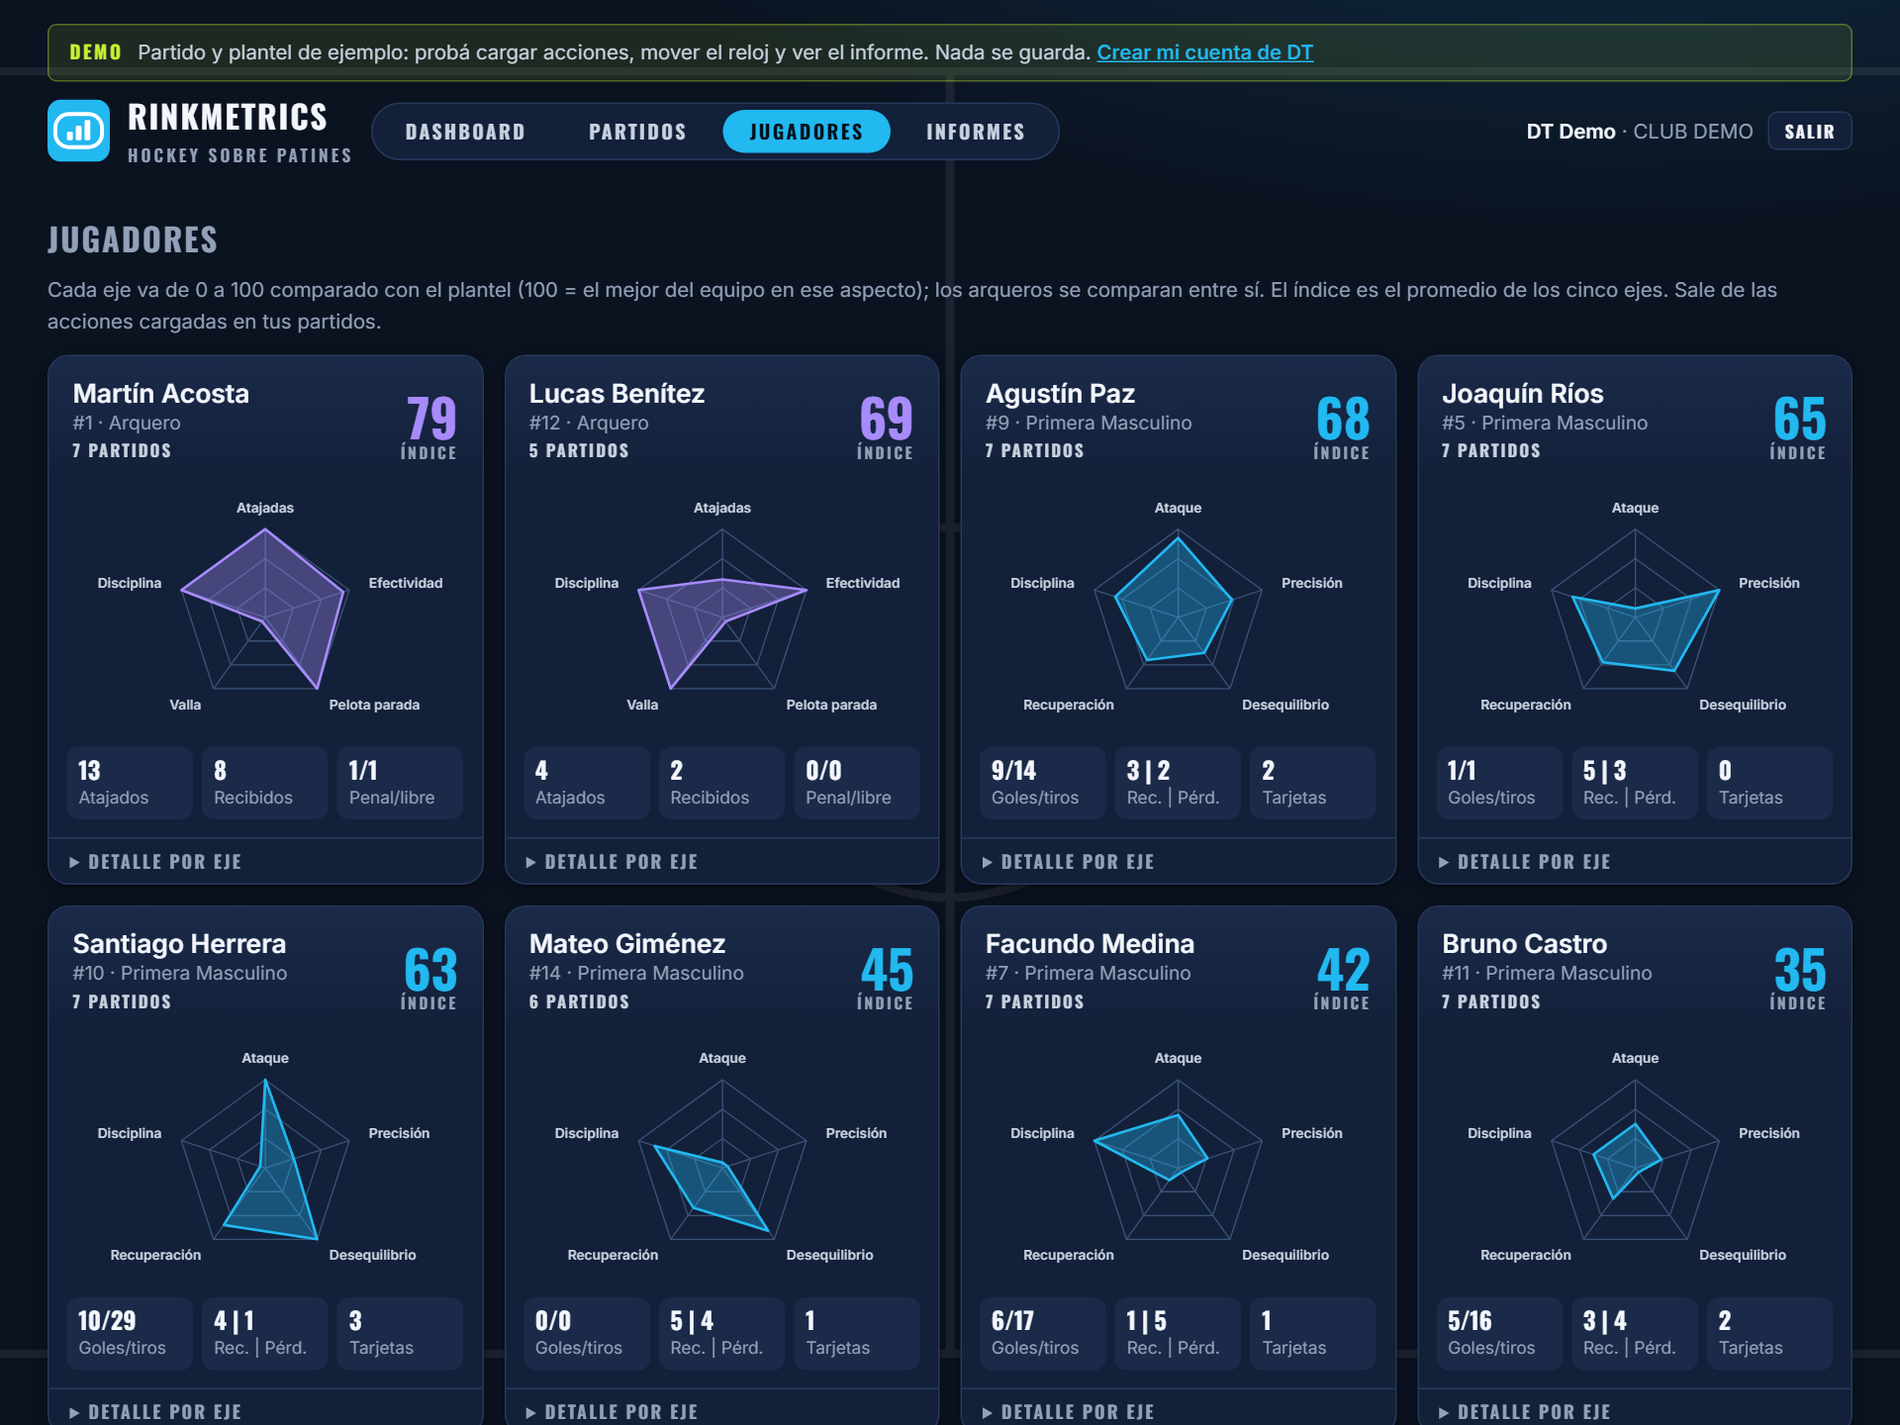
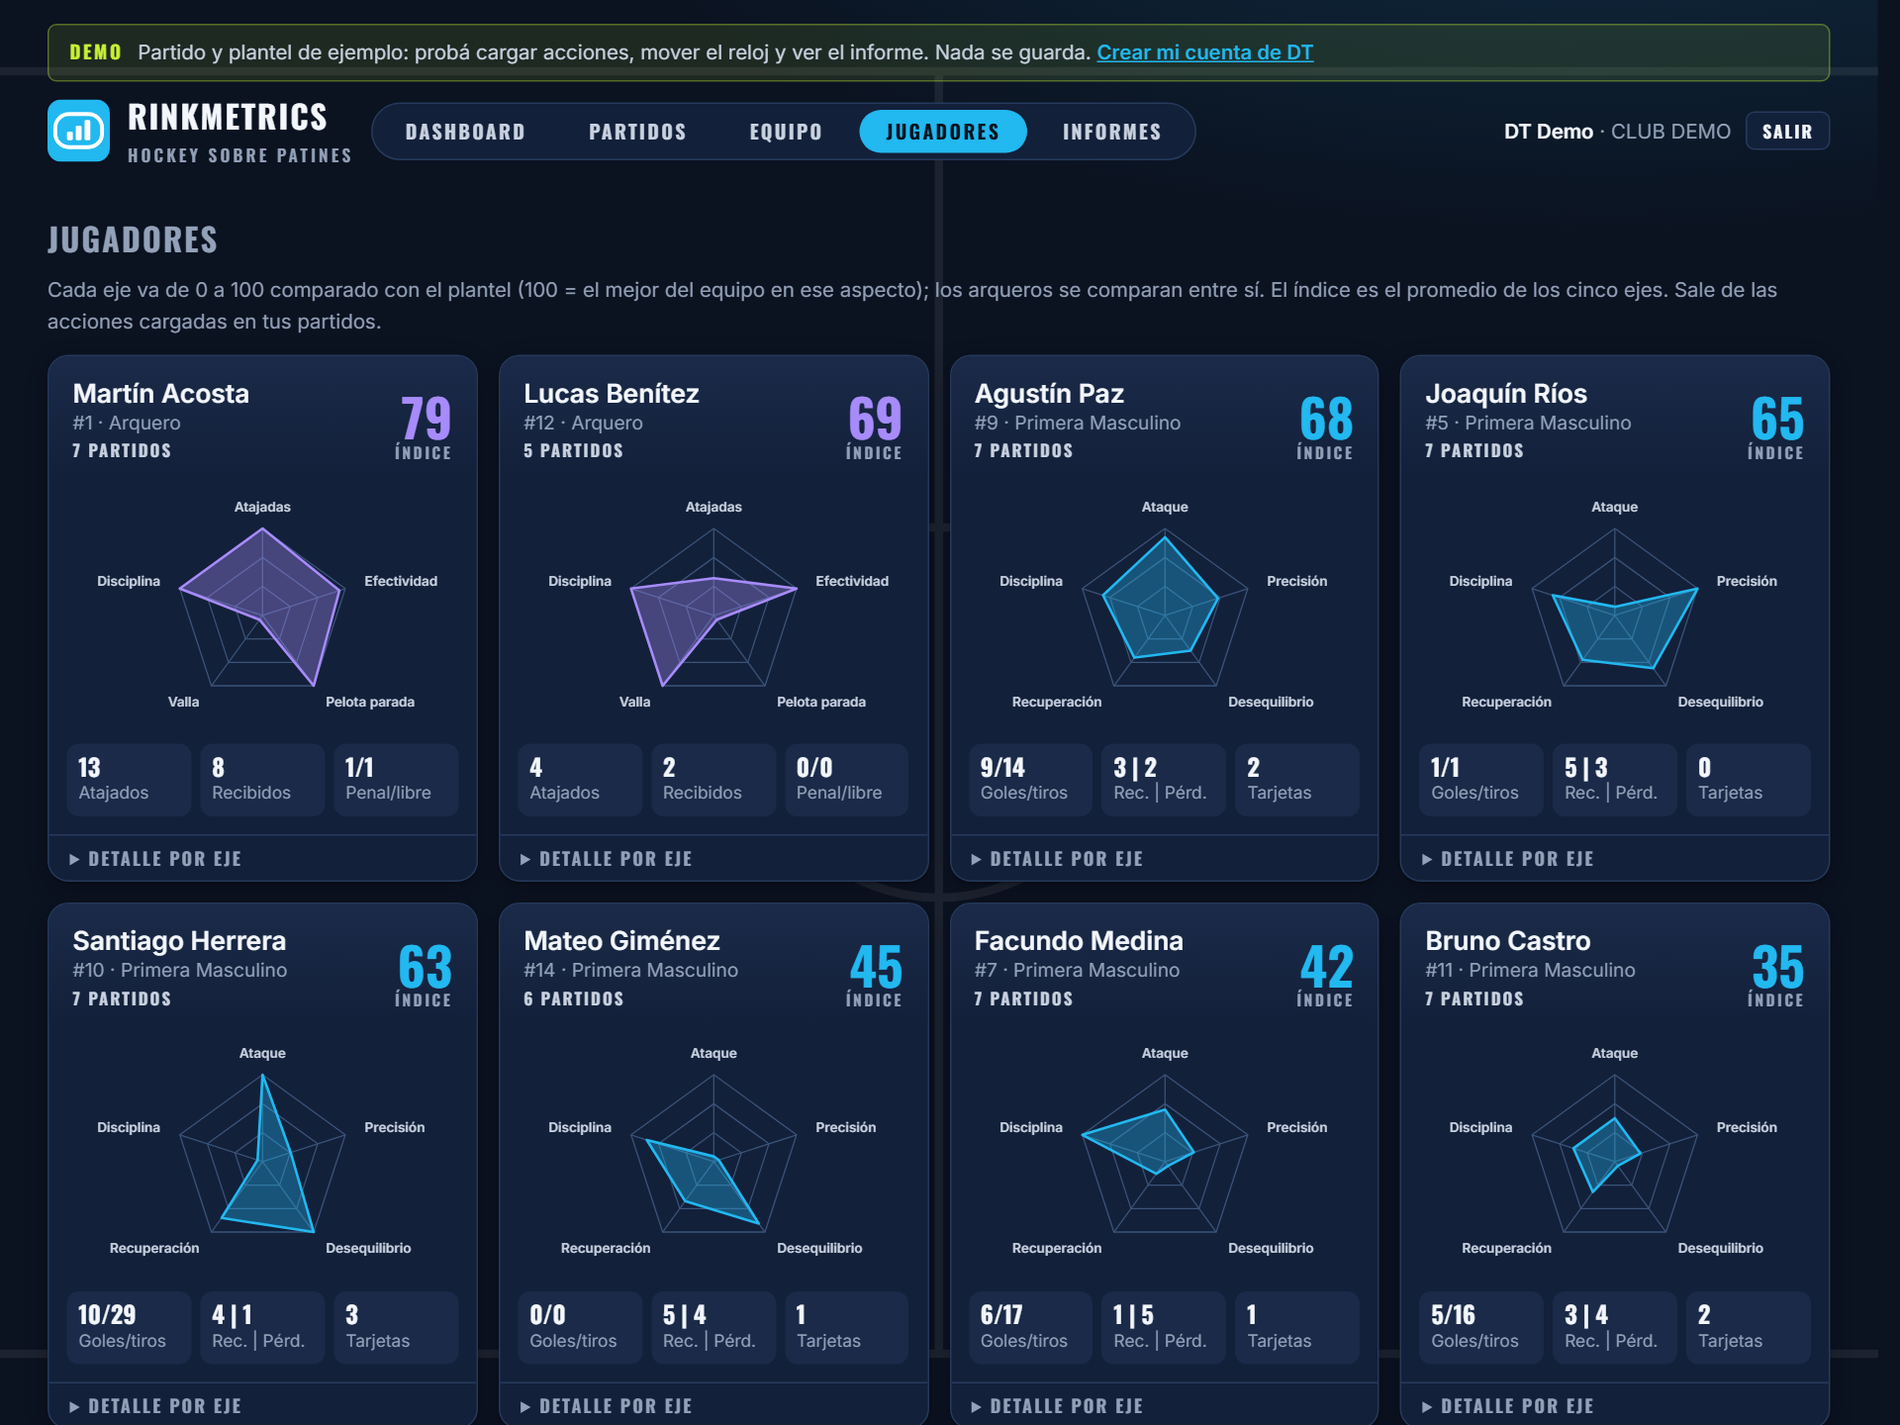
Métricas DT: vista Equipo con estadísticas consolidadas y rankings
- Menú: Dashboard · Partidos · Equipo · Jugadores · Informes.
- Equipo: balance de los finalizados, las métricas de todos los partidos
  cargados, goleadores y top 3 de penales y de libres (salen del dashboard).
- El espacio de la barra de desplazamiento queda reservado, así el logo y el
  menú no se corren al pasar a Jugadores o Informes.
- Captura nueva de Equipo en la galería; README al día.

diff --git a/src/main/resources/static/js/dt.js b/src/main/resources/static/js/dt.js
@@ -573,40 +573,37 @@
         }
     }
 
-    /** #partido=ID abre la carga; #partidos, #jugadores o #dashboard (sin nada, el dashboard) muestran esa vista. */
+    /** #partido=ID abre la carga; #partidos, #equipo, #jugadores, #informes o #dashboard (sin nada) muestran esa vista. */
     function ruta() {
         const m = location.hash.match(/^#partido=(\d+)$/);
-        if (m) { $("dt-menu").hidden = true; for (const v of ["v-dashboard", "v-jugadores", "v-informes"]) $(v).hidden = true; abrir(Number(m[1])); return; }
+        if (m) { $("dt-menu").hidden = true; for (const v of ["v-dashboard", "v-equipo", "v-jugadores", "v-informes"]) $(v).hidden = true; abrir(Number(m[1])); return; }
         partido = null;
         actualizarWakeLock();
         $("v-partido").hidden = true;
         document.body.classList.remove("dt-vivo");
         const inf = location.hash.match(/^#informe=(\d+)$/);
         const vista = inf ? "informes" : (location.hash.slice(1) || "dashboard");
-        const v = ["dashboard", "partidos", "jugadores", "informes"].includes(vista) ? vista : "dashboard";
+        const v = ["dashboard", "partidos", "equipo", "jugadores", "informes"].includes(vista) ? vista : "dashboard";
         $("dt-menu").hidden = false;
         document.querySelectorAll("#dt-menu a").forEach(a =>
             a.dataset.vista === v ? a.setAttribute("aria-current", "page") : a.removeAttribute("aria-current"));
         $("v-dashboard").hidden = v !== "dashboard";
         $("v-elegir").hidden = v !== "partidos";
         $("v-jugadores").hidden = v !== "jugadores";
+        $("v-equipo").hidden = v !== "equipo";
         $("v-informes").hidden = v !== "informes";
         if (v === "informes") cargarInformes(inf ? Number(inf[1]) : null);
         if (v === "dashboard") cargarDashboard();
         if (v === "partidos") cargarMis();
         if (v === "jugadores") cargarFichas();
+        if (v === "equipo") cargarEquipo();
     }
 
     // ---------- Dashboard general ----------
 
     async function cargarDashboard() {
         try {
-            const q = e => `categoria=${encodeURIComponent(e.categoria)}&rama=${encodeURIComponent(e.rama)}`;
-            const [lista, planteles, acciones] = await Promise.all([
-                getJson("/api/dt/partidos").then(r => r.data),
-                Promise.all(sesion.equipos.map(e => getJson("/api/dt/plantel?" + q(e)).then(r => r.data).catch(() => []))),
-                Promise.all(sesion.equipos.map(e => getJson("/api/dt/acciones?" + q(e)).then(r => r.data).catch(() => []))),
-            ]);
+            const lista = (await getJson("/api/dt/partidos")).data;
             const d = DtFichas.dashboard(lista, hoy());
             $("d-partidos").textContent = d.partidos;
             $("d-mes").textContent = d.esteMes;
@@ -614,7 +611,6 @@
             $("d-mes-label").textContent = cupo ? `Este mes (plan: ${cupo} por mes)` : "Este mes";
             $("d-estados").innerHTML = DtFichas.barrasEstado(d.estados);
             $("d-meses").innerHTML = DtFichas.lineaMeses(d.meses);
-            rankings(acciones.flat(), planteles.flat().map(j => ({key: "j" + j.id, numero: j.numero, nombre: j.nombre, arquero: j.arquero})));
             const ul = $("d-proximos");
             ul.replaceChildren();
             if (!d.proximos.length) ul.append(el("li", "dt-vacio", "No hay partidos programados. Creá uno con fecha futura en Partidos."));
@@ -632,13 +628,48 @@
         }
     }
 
+    // ---------- Equipo: estadísticas consolidadas ----------
+
+    /** Vista Equipo: balance, las métricas de todos los partidos cargados del equipo y los rankings. */
+    async function cargarEquipo() {
+        const sel = $("e-equipo");
+        if (!sel.options.length) {
+            sesion.equipos.forEach((e, i) => { const o = el("option", null, e.nombre); o.value = String(i); sel.append(o); });
+            sel.hidden = sesion.equipos.length < 2;
+            sel.addEventListener("change", cargarEquipo);
+        }
+        const e = sesion.equipos[Number(sel.value) || 0];
+        const q = `categoria=${encodeURIComponent(e.categoria)}&rama=${encodeURIComponent(e.rama)}`;
+        $("e-kpis").replaceChildren(el("p", "dt-vacio", "Cargando…"));
+        try {
+            const [lista, acc, pl] = await Promise.all([getJson("/api/dt/partidos").then(r => r.data),
+                getJson("/api/dt/acciones?" + q).then(r => r.data), getJson("/api/dt/plantel?" + q).then(r => r.data).catch(() => [])]);
+            const fin = lista.filter(p => p.categoria === e.categoria && p.rama === e.rama && DtInforme.finalizado(p));
+            const plantelEq = pl.map(j => ({key: "j" + j.id, numero: j.numero, nombre: j.nombre, arquero: j.arquero}));
+            const inf = DtInforme.armar({titulo: "", detalle: "", unPartido: false, partidos: fin, acciones: acc,
+                jugadores: plantelEq, nombreAccion: accion});
+            const b = inf.balance;
+            $("e-balance").replaceChildren(...[[b.jugados, "Jugados"], [b.ganados, "Ganados"], [b.empatados, "Empatados"],
+                [b.perdidos, "Perdidos"], [b.golesFavor, "Goles a favor"], [b.golesContra, "Goles en contra"]].map(([v, n]) => {
+                const k = el("div", "dt-kpi"); k.append(el("b", null, String(v)), el("span", null, n)); return k;
+            }));
+            $("e-kpis").replaceChildren(...DtInforme.tarjetas(inf.totales).map(([v, n, d, cls]) => {
+                const k = el("div", "dt-kpi" + (cls ? " t-" + cls : ""));
+                k.append(el("b", null, String(v)), el("span", null, n));
+                if (d) k.append(el("small", null, d));
+                return k;
+            }));
+            rankings(inf.jugadores);
+        } catch (err) {
+            $("e-kpis").replaceChildren(el("p", "dt-vacio", "No se pudieron cargar las estadísticas: " + err.message));
+        }
+    }
+
     /**
      * Goleadores del equipo (los 5 con más goles) y los 3 mejores en penales y en libres a favor (por efectividad; a
-     * igual efectividad, el que más pateó), con todas las acciones cargadas en los partidos del DT.
+     * igual efectividad, el que más pateó).
      */
-    function rankings(acciones, plantelTodos) {
-        const js = DtInforme.armar({titulo: "", detalle: "", unPartido: false, partidos: [], acciones,
-            jugadores: plantelTodos, nombreAccion: accion}).jugadores;
+    function rankings(js) {
         const pintar = (id, filas, vacio) => {
             const ol = $(id);
             ol.replaceChildren();
@@ -653,7 +684,7 @@
                 ol.append(li);
             });
         };
-        pintar("d-goleadores", js.filter(j => j.metricas.goles > 0)
+        pintar("e-goleadores", js.filter(j => j.metricas.goles > 0)
             .sort((a, b) => b.metricas.goles - a.metricas.goles || a.nombre.localeCompare(b.nombre, "es")).slice(0, 5)
             .map(j => ({j, valor: String(j.metricas.goles), barra: j.metricas.goles,
                 detalle: `${j.metricas.goles === 1 ? "gol" : "goles"} · ${j.partidos} PJ`})),
@@ -662,8 +693,8 @@
             .map(j => ({j, pct: Math.round(100 * j.metricas[gol] / j.metricas[total]), a: j.metricas[gol], b: j.metricas[total]}))
             .sort((x, y) => y.pct - x.pct || y.b - x.b || x.j.nombre.localeCompare(y.j.nombre, "es")).slice(0, 3)
             .map(x => ({j: x.j, valor: x.pct + "%", barra: x.pct, detalle: `${x.a}/${x.b} convertidos`})), vacio);
-        top("penalesGol", "penales", "Todavía no hay penales a favor cargados.", "d-penales");
-        top("libresGol", "libres", "Todavía no hay libres a favor cargados.", "d-libres");
+        top("penalesGol", "penales", "Todavía no hay penales a favor cargados.", "e-penales");
+        top("libresGol", "libres", "Todavía no hay libres a favor cargados.", "e-libres");
     }
 
     // ---------- Informes ----------

diff --git a/src/main/resources/static/dt-demo.html b/src/main/resources/static/dt-demo.html
@@ -25,6 +25,7 @@
     <nav class="dt-menu" id="dt-menu" aria-label="Métricas DT">
         <a href="#dashboard" data-vista="dashboard">Dashboard</a>
         <a href="#partidos" data-vista="partidos">Partidos</a>
+        <a href="#equipo" data-vista="equipo">Equipo</a>
         <a href="#jugadores" data-vista="jugadores">Jugadores</a>
         <a href="#informes" data-vista="informes">Informes</a>
     </nav>
@@ -39,11 +40,24 @@
         <div class="dash-grid">
             <div class="dash-box"><h3>Estado de los partidos</h3><div id="d-estados"></div></div>
             <div class="dash-box"><h3>Partidos jugados por mes</h3><div id="d-meses"></div></div>
-            <div class="dash-box dash-goleadores"><h3>Goleadores</h3><ol class="dash-ranking" id="d-goleadores"></ol></div>
-            <div class="dash-box"><h3>Penales · Top 3</h3><ol class="dash-ranking" id="d-penales"></ol></div>
-            <div class="dash-box"><h3>Libres · Top 3</h3><ol class="dash-ranking" id="d-libres"></ol></div>
             <div class="dash-box dash-proximos"><h3>Próximos partidos</h3><ul class="dt-lista" id="d-proximos"></ul>
                 <a class="btn primary" href="#partidos">Programar un partido</a></div>
+        </div>
+    </section>
+
+    <!-- Equipo: estadísticas consolidadas, goleadores y pelota parada -->
+    <section id="v-equipo" class="dt-vista" hidden>
+        <div class="dt-line"><h2 class="section-title">Equipo</h2>
+            <select id="e-equipo" aria-label="Equipo" hidden></select></div>
+        <p class="hint">Estadísticas consolidadas de todos los partidos cargados del equipo. El balance cuenta los
+            partidos finalizados.</p>
+        <div class="dt-kpis eq-balance" id="e-balance"></div>
+        <h4 class="inf-sub">Estadísticas del equipo</h4>
+        <div class="inf-kpis" id="e-kpis"></div>
+        <div class="dash-grid eq-rankings">
+            <div class="dash-box"><h3>Goleadores</h3><ol class="dash-ranking" id="e-goleadores"></ol></div>
+            <div class="dash-box"><h3>Penales · Top 3</h3><ol class="dash-ranking" id="e-penales"></ol></div>
+            <div class="dash-box"><h3>Libres · Top 3</h3><ol class="dash-ranking" id="e-libres"></ol></div>
         </div>
     </section>
 

diff --git a/src/main/resources/static/dt.html b/src/main/resources/static/dt.html
@@ -23,6 +23,7 @@
     <nav class="dt-menu" id="dt-menu" aria-label="Métricas DT">
         <a href="#dashboard" data-vista="dashboard">Dashboard</a>
         <a href="#partidos" data-vista="partidos">Partidos</a>
+        <a href="#equipo" data-vista="equipo">Equipo</a>
         <a href="#jugadores" data-vista="jugadores">Jugadores</a>
         <a href="#informes" data-vista="informes">Informes</a>
     </nav>
@@ -37,11 +38,24 @@
         <div class="dash-grid">
             <div class="dash-box"><h3>Estado de los partidos</h3><div id="d-estados"></div></div>
             <div class="dash-box"><h3>Partidos jugados por mes</h3><div id="d-meses"></div></div>
-            <div class="dash-box dash-goleadores"><h3>Goleadores</h3><ol class="dash-ranking" id="d-goleadores"></ol></div>
-            <div class="dash-box"><h3>Penales · Top 3</h3><ol class="dash-ranking" id="d-penales"></ol></div>
-            <div class="dash-box"><h3>Libres · Top 3</h3><ol class="dash-ranking" id="d-libres"></ol></div>
             <div class="dash-box dash-proximos"><h3>Próximos partidos</h3><ul class="dt-lista" id="d-proximos"></ul>
                 <a class="btn primary" href="#partidos">Programar un partido</a></div>
+        </div>
+    </section>
+
+    <!-- Equipo: estadísticas consolidadas, goleadores y pelota parada -->
+    <section id="v-equipo" class="dt-vista" hidden>
+        <div class="dt-line"><h2 class="section-title">Equipo</h2>
+            <select id="e-equipo" aria-label="Equipo" hidden></select></div>
+        <p class="hint">Estadísticas consolidadas de todos los partidos cargados del equipo. El balance cuenta los
+            partidos finalizados.</p>
+        <div class="dt-kpis eq-balance" id="e-balance"></div>
+        <h4 class="inf-sub">Estadísticas del equipo</h4>
+        <div class="inf-kpis" id="e-kpis"></div>
+        <div class="dash-grid eq-rankings">
+            <div class="dash-box"><h3>Goleadores</h3><ol class="dash-ranking" id="e-goleadores"></ol></div>
+            <div class="dash-box"><h3>Penales · Top 3</h3><ol class="dash-ranking" id="e-penales"></ol></div>
+            <div class="dash-box"><h3>Libres · Top 3</h3><ol class="dash-ranking" id="e-libres"></ol></div>
         </div>
     </section>
 

diff --git a/src/main/resources/static/css/app.css b/src/main/resources/static/css/app.css
@@ -31,7 +31,8 @@
     --body: "Inter", system-ui, -apple-system, "Segoe UI", sans-serif;
 }
 * { box-sizing: border-box; }
-html { background: var(--bg); }
+/* El espacio de la barra de desplazamiento queda reservado: al pasar de una pantalla corta a una larga, nada se corre. */
+html { background: var(--bg); scrollbar-gutter: stable; }
 body {
     margin: 0; min-height: 100vh; color: var(--ink); font: 16px/1.55 var(--body);
     background:
@@ -555,8 +556,7 @@ nav.secciones a { white-space: nowrap; }
     .dash-proximos { grid-column: 1 / -1; }
 }
 @media (min-width: 1100px) {
-    .dash-grid { grid-template-columns: repeat(3, minmax(0, 1fr)); }
-    .dash-goleadores { grid-row: span 2; }
+    .eq-rankings { grid-template-columns: repeat(3, minmax(0, 1fr)); }
 }
 .grafico { width: 100%; height: auto; display: block; }
 .grafico .eje { font: 500 11px var(--body); fill: var(--muted); }
@@ -666,3 +666,8 @@ body.dt-vivo .dt-menu { display: none; }
 .dash-ranking b { font: 700 1.15rem/1 var(--display); color: var(--accent); text-align: right; }
 .dash-ranking small { grid-column: 2 / -1; font-size: .72rem; color: var(--muted); }
 .dash-ranking .barra { position: absolute; left: 0; bottom: 0; height: 3px; background: var(--accent); opacity: .7; }
+
+/* Vista Equipo */
+.eq-balance { margin: 12px 0 4px; }
+@media (min-width: 760px) { .eq-balance { grid-template-columns: repeat(6, minmax(0, 1fr)); } }
+.eq-rankings { margin-top: 18px; align-items: start; }

diff --git a/src/main/resources/static/dt-inicio.html b/src/main/resources/static/dt-inicio.html
@@ -97,6 +97,10 @@
                 <figcaption><b>Dashboard general</b> Totales, estado de los partidos, evolución mes a mes y próximos partidos.</figcaption>
             </figure>
             <figure>
+                <img src="/img/demo/equipo.png" alt="Estadísticas del equipo: balance, métricas consolidadas, goleadores y top 3 de penales y libres" loading="lazy" width="1920" height="1440">
+                <figcaption><b>Equipo</b> Estadísticas consolidadas, goleadores y los mejores en penales y libres.</figcaption>
+            </figure>
+            <figure>
                 <img src="/img/demo/jugadores.png" alt="Fichas de los jugadores: índice, pentágono de cinco ejes y datos clave" loading="lazy" width="1920" height="1440">
                 <figcaption><b>Ficha de cada jugador</b> Índice y cinco ejes comparados con el plantel; los arqueros, con sus propios ejes.</figcaption>
             </figure>

diff --git a/src/main/resources/static/js/dt-informe.js b/src/main/resources/static/js/dt-informe.js
@@ -263,5 +263,5 @@ const DtInforme = (() => {
             + (inf.unPartido ? " Minuto: tiempo jugado del período." : " PJ: partidos con acciones del jugador.")));
     }
 
-    return {metricas, armar, opciones, nombre, valor, render, finalizado, fecha, TIPOS};
+    return {metricas, armar, opciones, nombre, valor, render, tarjetas, finalizado, fecha, TIPOS};
 })();

diff --git a/README.md b/README.md
@@ -247,11 +247,12 @@ perfil decide de dónde salen los clubes, las categorías, los jugadores y los i
   segundo jugado; su id lo genera el teléfono, así reenviar una tanda sin señal no duplica. El marcador se arma con
   las acciones. Tablas `partido_dt` y `accion_dt` (V12). Un partido cerrado se puede reabrir durante 48 h.
 - **Métricas DT: menú, dashboard, fichas e informes.** La pantalla del DT tiene un menú Dashboard · Partidos ·
-  Jugadores · Informes (entra al dashboard).
+  Equipo · Jugadores · Informes (entra al dashboard).
   - **Dashboard general:** partidos cargados y del mes; estado de los partidos (programados = creados con fecha
-    futura y sin iniciar, en juego, finalizados); partidos jugados por mes (los últimos 6); goleadores del equipo (los
-    5 con más goles); top 3 en efectividad de penales y de libres a favor (a igual efectividad, el que más pateó); y los
-    próximos partidos.
+    futura y sin iniciar, en juego, finalizados); partidos jugados por mes (los últimos 6) y los próximos partidos.
+  - **Equipo:** las estadísticas consolidadas de todos los partidos cargados del equipo (las mismas métricas del
+    informe), el balance de los finalizados (jugados, ganados, empatados, perdidos y goles), los goleadores (los 5
+    con más goles) y el top 3 en efectividad de penales y de libres a favor (a igual efectividad, el que más pateó).
   - **Jugadores:** la ficha de cada uno, con índice (0 a 100) y un pentágono de cinco ejes comparados con el plantel
     (100 = el mejor del equipo): ataque, precisión, desequilibrio (faltas recibidas), recuperación (balance con las
     pérdidas) y disciplina. Los arqueros se comparan entre sí con sus ejes: atajadas, efectividad, pelota parada,
